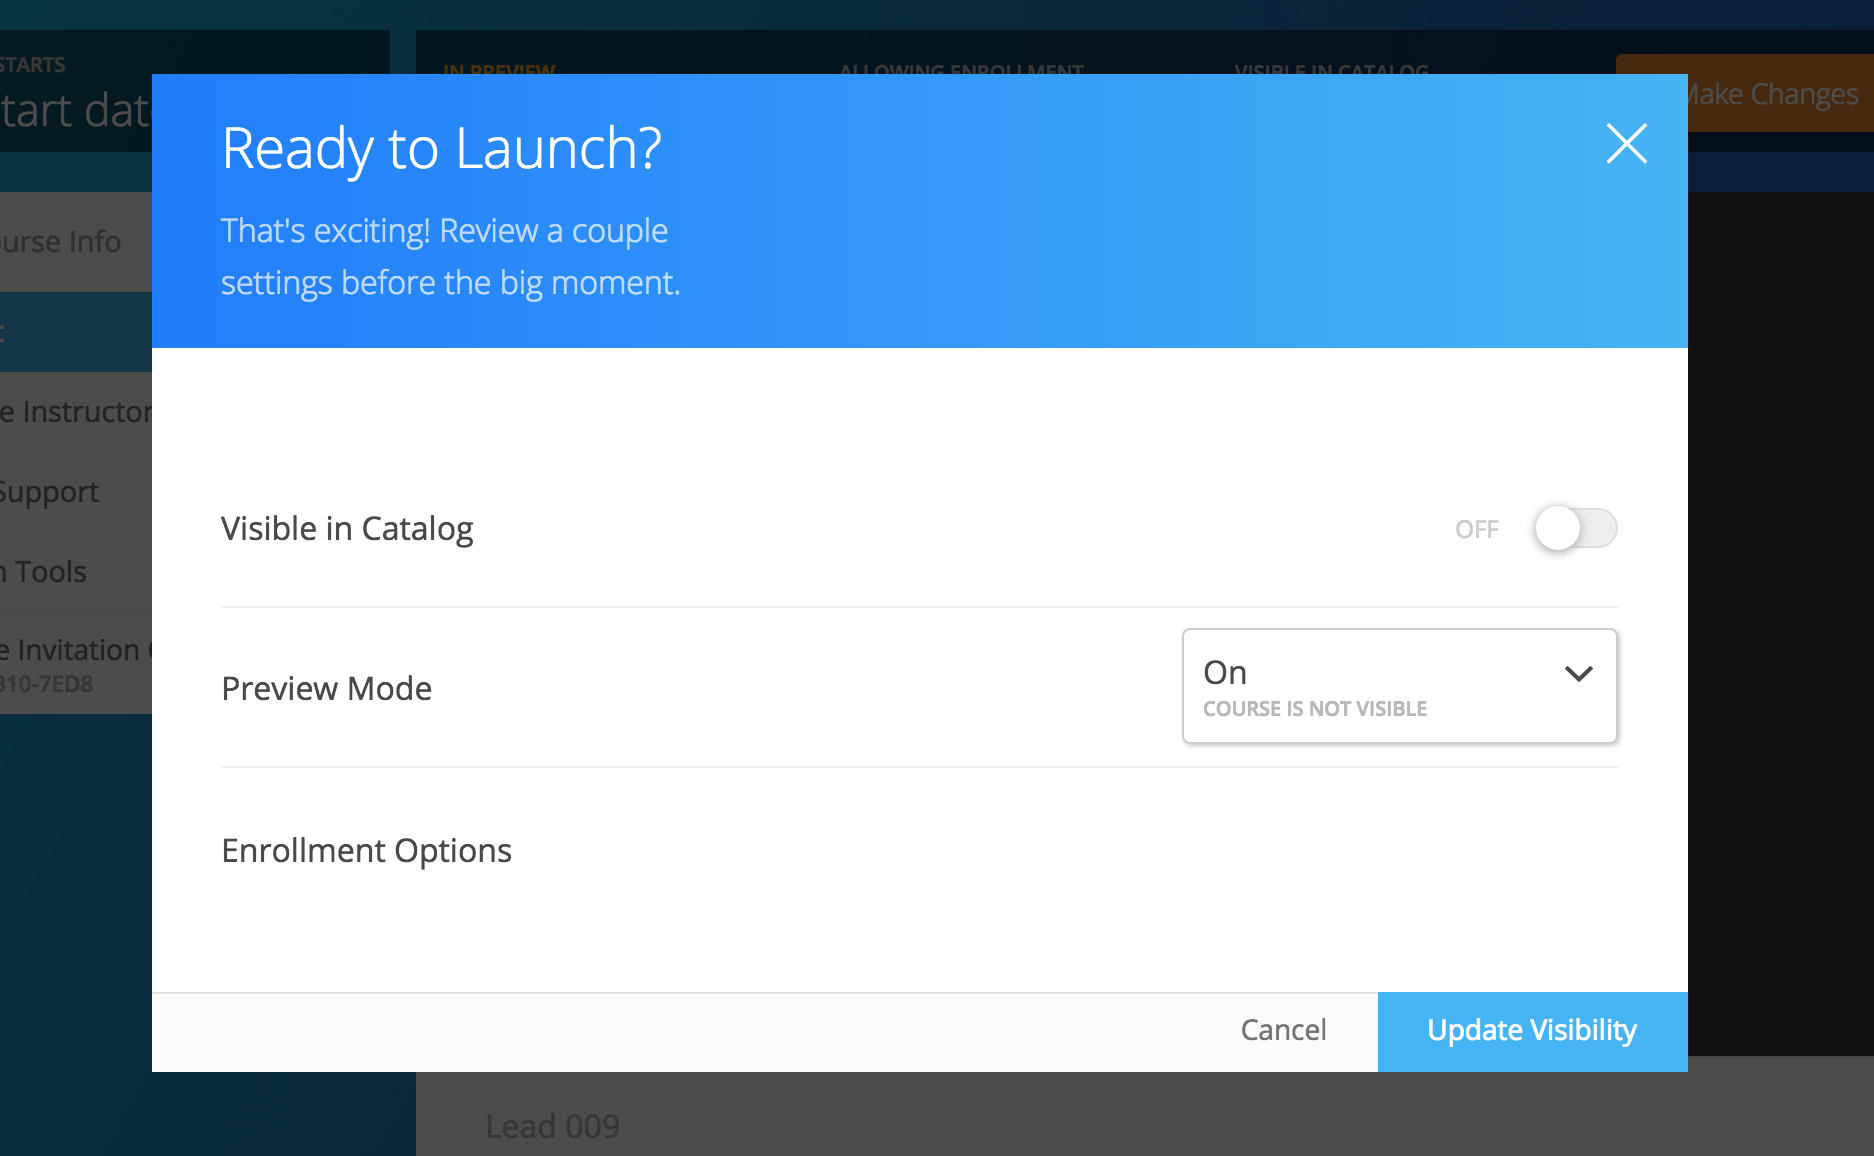
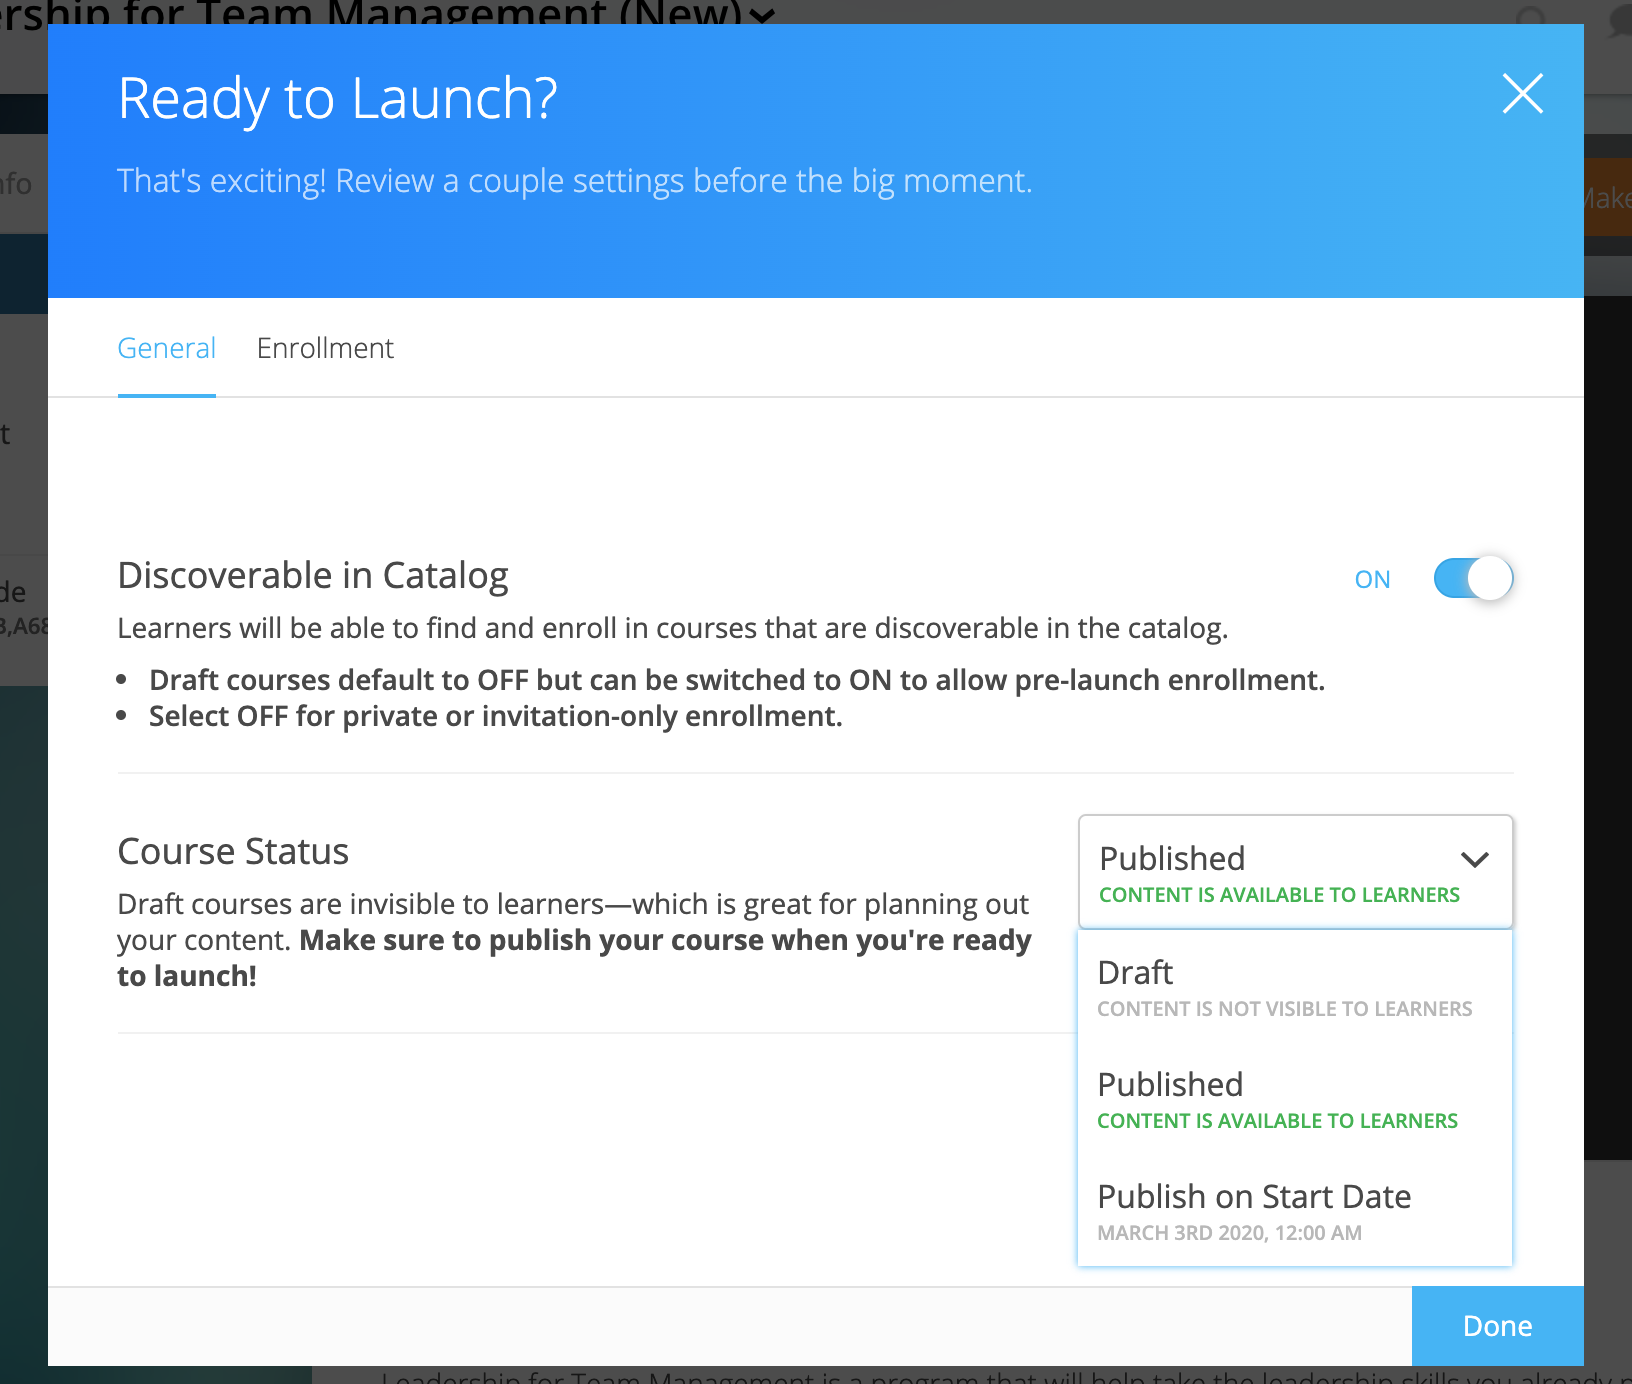
editor guide ready to launch changes

diff --git a/editorguide/setup.rst b/editorguide/setup.rst
@@ -39,7 +39,7 @@ To get started, click on the "Make Changes" button on the course's Course Info p
 
 **Visible in Catalog**
 
-The "Visible in Catalog" field allows you to toggle course visibility within the course catalog. 
+The "Discoverable in Catalog" field allows you to toggle course visibility within the course catalog. 
 
 - **Off:**
   This option will keep the course private. This means that the course will not show up in the public course catalog. No one will be able to enroll in the course unless you provide them with the course redemption code.
@@ -47,22 +47,27 @@ The "Visible in Catalog" field allows you to toggle course visibility within the
 - **On:**
   This will allow the course to display in the course catalog. This means that when a site user clicks on the course catalog, the course will display and the learner can view basic course information and enroll in the course.
 
-**Preview Mode**
+**Course Status**
 
-The "Preview Mode" defines when the course becomes available for learners to begin.
+This option defines when the course becomes available for learners to begin.
 
-- **Preview Mode On:**
-  This option sets the course to course preview mode, meaning that users can only view Course Info and cannot view course content.
+- **Draft:**
+  This option makes the course invisible to learners while you create and edit your course; however, if you want to allow early enrollment, you can set the course Status to "Draft" and Discoverable to "On." This will allows learners to enroll, but the content will remain invisible.
   
-- **Preview Mode Off:**
+- **Published:**
   This option allows the course to be fully available to users.
   
-- **Based on Start Date:**
+- **Publish on Start Date:**
   This option sets the course to be in course preview mode until the defined start date and time, at which time it will then become fully available to users.
   
-.. image:: images/coursepreviewmode4.png
 
-..  note:: By default the course will be in **Preview Mode On** and will need to be either switched to **Preview Mode Off** or **Based on Start Date** for users to begin the course. 
+..  note:: By default the course will be "Off" for Discoverable in Catalog and in "Draft."
+
+**Enrollment Options**
+
+The next tab within the Ready to Launch menu allows you to turn on or off "Open Enrollment." This option determines if the "Enroll" button is available from within the course catalog. If learners should enroll through another application instead of directly on NextThought, you can turn this option off. 
+
+.. image:: images/readytolaunchenroll.png
 
 
 Basic Course Information
